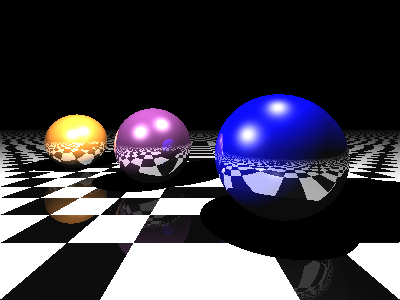
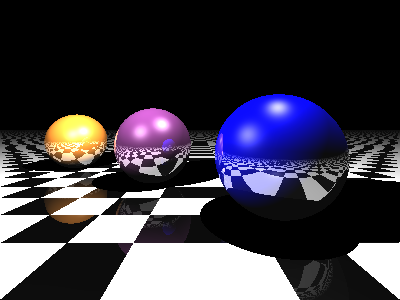
fix: fix error on light color

diff --git a/raytracing.py b/raytracing.py
@@ -85,7 +85,7 @@ def trace_ray(rayO, rayD):
         if l and min(l) < np.inf:
             return
         col_ray += obj.get('diffuse_c', diffuse_c) * max(np.dot(N, toL), 0) * color
-        col_ray += obj.get('specular_c', specular_c) * max(np.dot(N, normalize(toL + toO)), 0) ** specular_k * color_light
+        col_ray += obj.get('specular_c', specular_c) * max(np.dot(N, normalize(toL + toO)), 0) ** specular_k * light['color']
     return obj, M, N, col_ray
 
 def add_sphere(position, radius, color):
@@ -113,7 +113,6 @@ lights = [
     {'position': np.array([-2.0, 2.0, 0.0]), 'color': np.array([0.5, 0.5, 0.5])},
     {'position': np.array([1.0, 4.0, 1.0]), 'color': np.array([0.8, 0.8, 0.8])}
 ]
-color_light = np.ones(3)
 
 # Default light and material parameters.
 ambient = .05
